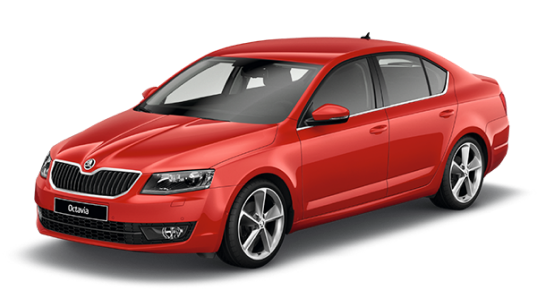
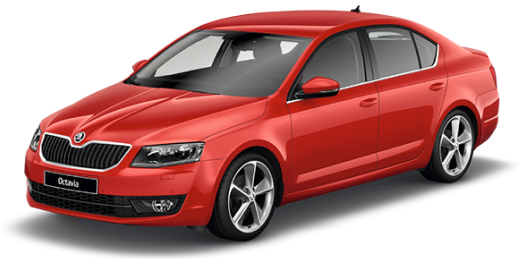
добавлены фото машин

diff --git a/index.html b/index.html
@@ -556,7 +556,7 @@
 
                                         </div>
                                         <div class="item-example__right">
-                                            <img src="img/image-example-01.png?ver1.0" alt="">
+                                            <img src="img/image-example-02.png?ver1.0" alt="">
                                         </div>
                                     </div>                            
                                 </div>
@@ -598,7 +598,7 @@
 
                                         </div>
                                         <div class="item-example__right">
-                                            <img src="img/image-example-01.png?ver1.0" alt="">
+                                            <img src="img/image-example-03.png?ver1.0" alt="">
                                         </div>
                                     </div>                            
                                 </div>
@@ -640,7 +640,7 @@
 
                                         </div>
                                         <div class="item-example__right">
-                                            <img src="img/image-example-01.png?ver1.0" alt="">
+                                            <img src="img/image-example-04.png?ver1.0" alt="">
                                         </div>
                                     </div>                            
                                 </div>
@@ -682,7 +682,7 @@
 
                                         </div>
                                         <div class="item-example__right">
-                                            <img src="img/image-example-01.png?ver1.0" alt="">
+                                            <img src="img/image-example-05.png?ver1.0" alt="">
                                         </div>
                                     </div>                            
                                 </div>
@@ -725,7 +725,7 @@
 
                                         </div>
                                         <div class="item-example__right">
-                                            <img src="img/image-example-01.png?ver1.0" alt="">
+                                            <img src="img/image-example-06.png?ver1.0" alt="">
                                         </div>
                                     </div>                            
                                 </div>
@@ -768,7 +768,7 @@
 
                                         </div>
                                         <div class="item-example__right">
-                                            <img src="img/image-example-01.png?ver1.0" alt="">
+                                            <img src="img/image-example-07.png?ver1.0" alt="">
                                         </div>
                                     </div>                            
                                 </div>

diff --git a/css/style.css b/css/style.css
@@ -1192,7 +1192,7 @@ div.error { position: absolute; bottom: 10px; color: #df4e49; display: none; fon
 .item-example { display: -webkit-box; display: -moz-box; display: -webkit-flex; display: -ms-flexbox; display: flex; }
 .item-example__left { width: 54.5%; padding: 90px 30px 0px 50px; }
 .item-example__right { width: 45.5%; text-align: right; position: relative; }
-.item-example__right img { margin-left: auto; margin-right: 0; position: absolute; right: 0; top: 0; }
+.item-example__right img { margin-left: auto; margin-right: 0; position: absolute; right: 0; top: 25px; }
 .item-example__top { display: -webkit-box; display: -moz-box; display: -webkit-flex; display: -ms-flexbox; display: flex; -webkit-box-align: center; -moz-box-align: center; -ms-flex-align: center; -webkit-align-items: center; align-items: center; -webkit-box-pack: justify; -moz-box-pack: justify; -ms-flex-pack: justify; -webkit-justify-content: space-between; justify-content: space-between; border-bottom: 1px solid #F3F3F3; padding-bottom: 20px; }
 .item-example__name { font-weight: 500; font-size: 14px; line-height: 18px; color: rgba(104, 104, 104, 0.7); }
 .item-example__name span { font-family: "Futura PT", sans-serif; font-weight: bold; font-size: 18px; line-height: 23px; text-transform: uppercase; color: #000; padding-right: 20px; }
@@ -1448,7 +1448,7 @@ body.menu-open { overflow: hidden; }
   .title-box .title-num { top: -38px; }
   .item-example { -webkit-box-direction: reverse; -webkit-box-orient: vertical; -moz-box-direction: reverse; -moz-box-orient: vertical; -webkit-flex-direction: column-reverse; -ms-flex-direction: column-reverse; flex-direction: column-reverse; }
   .item-example__right { width: 100%; height: 200px; }
-  .item-example__right img { position: relative; margin: 0 auto; max-width: 100%; max-height: 100%; }
+  .item-example__right img { position: relative; margin: 0 auto; max-width: 100%; max-height: 100%; top: 0; }
   .slider-examples { margin-top: 0; }
   .item-example__left { padding: 70px 15px 0px 15px; width: 100%; }
   .slider-arrows { width: 100%; bottom: auto; top: 240px; }

diff --git a/scss/layout/_content.scss b/scss/layout/_content.scss
@@ -1032,7 +1032,7 @@ div.error { position: absolute; bottom: 10px; color: #df4e49; display: none; fon
             margin-right: 0;
             position: absolute;
             right: 0;
-            top: 0;
+            top: 25px;
         }
     }
     &__top{
@@ -2045,6 +2045,7 @@ body.menu-open{overflow:hidden}
             margin: 0 auto;
             max-width: 100%;
             max-height: 100%;
+            top: 0;
         }
     }
     .slider-examples {
